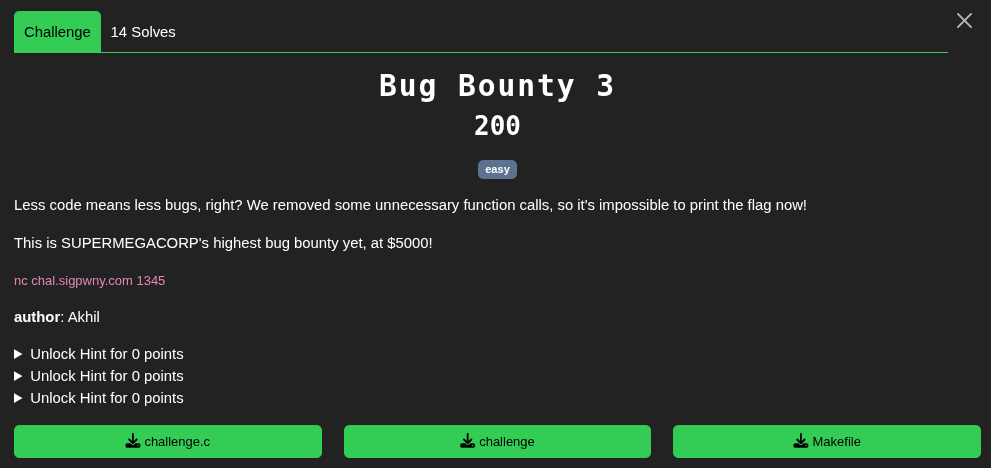
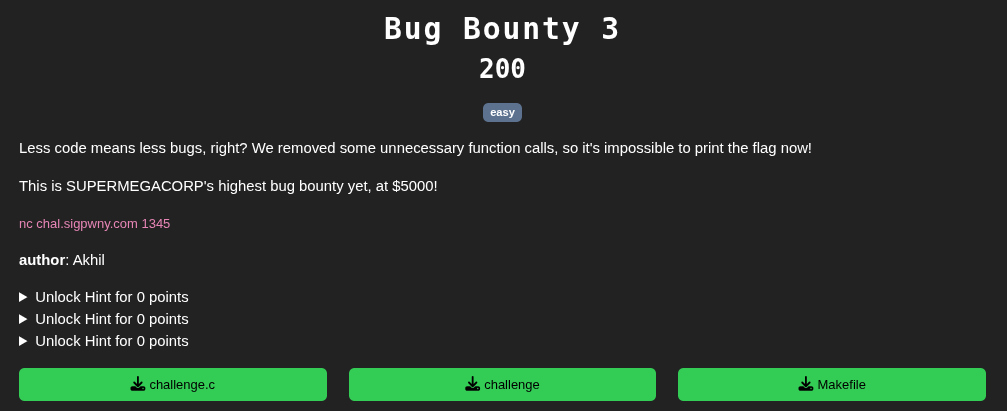
update Pwny CTF

diff --git a/PwnyCTF/PWN I/handout/Bug_Bounty_6/challenge.c b/PwnyCTF/PWN I/handout/Bug_Bounty_6/challenge.c
@@ -1,0 +1,58 @@
+#include <stdint.h>
+#include <stdio.h>
+#include <stdlib.h>
+
+void setup();
+void print_stack(char *name_addr, char *info_addr);                                   
+
+
+const char *pwn6 = "\n"
+" _______   __       __  __    __         ______  \n"
+"|       \\ |  \\  _  |  \\|  \\  |  \\       /      \\ \n"
+"| $$$$$$$\\| $$ / \\ | $$| $$\\ | $$      |  $$$$$$\\\n"
+"| $$__/ $$| $$/  $\\| $$| $$$\\| $$      | $$___\\$$\n"
+"| $$    $$| $$  $$$\\ $$| $$$$\\ $$      | $$    \\ \n"
+"| $$$$$$$ | $$ $$\\$$\\$$| $$\\$$ $$      | $$$$$$$\\\n"
+"| $$      | $$$$  \\$$$$| $$ \\$$$$      | $$__/ $$\n"
+"| $$      | $$$    \\$$$| $$  \\$$$       \\$$    $$\n"
+" \\$$       \\$$      \\$$ \\$$   \\$$        \\$$$$$$ \n";
+
+
+void vuln() {
+    char info[32];
+    char name[32];
+
+    printf("What's your name?\n");
+    printf("> ");
+
+    fgets(name, 32, stdin);
+    printf("Hello, ");
+    printf(name); // there's a vulnerability here
+    printf("\n");
+
+    puts("Give me all your personal information (credit card number, SSN, all of it):");
+    printf("> ");
+    fgets(info, 64, stdin);
+}
+
+int main() {
+    setup();
+    puts(pwn6);
+    vuln();
+    return 0;                                                            
+}
+
+
+
+
+
+/**
+* You can ignore everything below this
+*/
+
+// Just to make things work over the network
+void setup() {
+    setvbuf(stdout, NULL, _IONBF, 0);
+    setvbuf(stderr, NULL, _IONBF, 0);
+    setvbuf(stdin, NULL, _IONBF, 0);
+}

diff --git a/PwnyCTF/PWN I/Bug_Bounty_5.md b/PwnyCTF/PWN I/Bug_Bounty_5.md
@@ -6,9 +6,10 @@ So for this challenge there is no `print_flag` function :(
 How are we going to do ?
 
 When we run `checksec challenge`  we get this:
+
 ![](./img/16.png)
 
-It says that the stack is executable!
+It says that the stack is executable!  
 An **executable stack** is a region of a memory (the call stack) that has permissions set to allow the execution of **machine code** directly from it.
 
 We have control over what we put in the `name` variable and we are given his address in memory.
@@ -109,3 +110,5 @@ With the `hexdump` followed by the address of `name`, you get a nice display of 
 
 
 There is much more commands and more things to explore with gdb/pwndbg. This is just a showcase :)
+
+[Bug Bounty 6](./Bug_Bounty_6.md)

diff --git a/PwnyCTF/PWN I/Bug_Bounty_6.md b/PwnyCTF/PWN I/Bug_Bounty_6.md
@@ -1,0 +1,2 @@
+![](./img/21.png)
+
